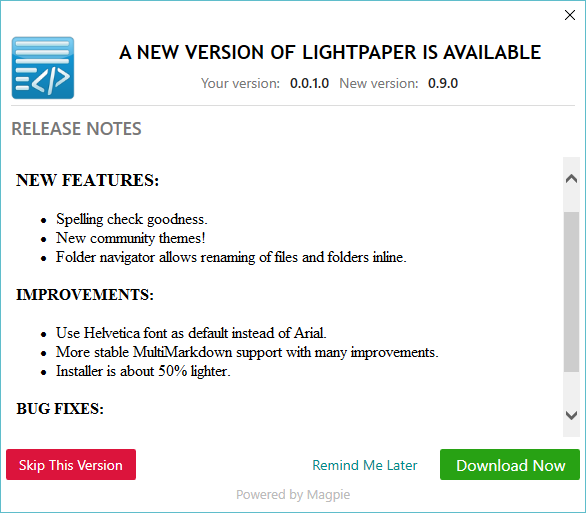
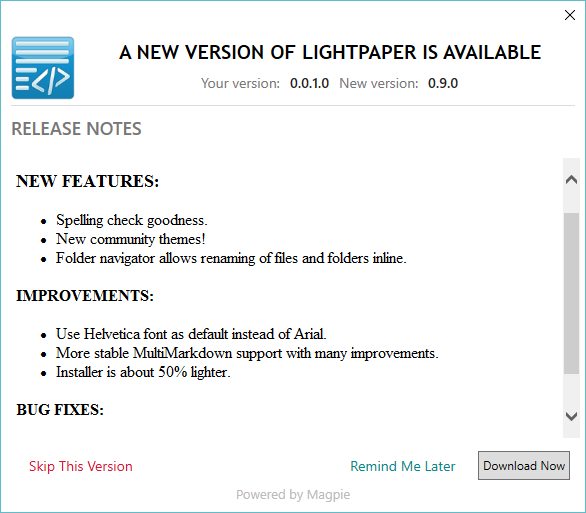
Add new screenshots

diff --git a/README.md b/README.md
@@ -4,4 +4,6 @@ A modern software update framework for .net applications.
 #### Master Branch Status:
 [![Build status](https://ci.appveyor.com/api/projects/status/a5t0tq8i5y5q0ixi/branch/master?svg=true)](https://ci.appveyor.com/project/ashokgelal/magpie/branch/master)
 
-![Screenshot](https://github.com/ashokgelal/Magpie/blob/master/screenshots/lp_screenshot.PNG)
+![Update Available Screenshot](https://github.com/ashokgelal/Magpie/blob/master/screenshots/lp_screenshot.png)
+
+![Download Screenshot](https://github.com/ashokgelal/Magpie/blob/master/screenshots/lp_download_screenshot.png)
